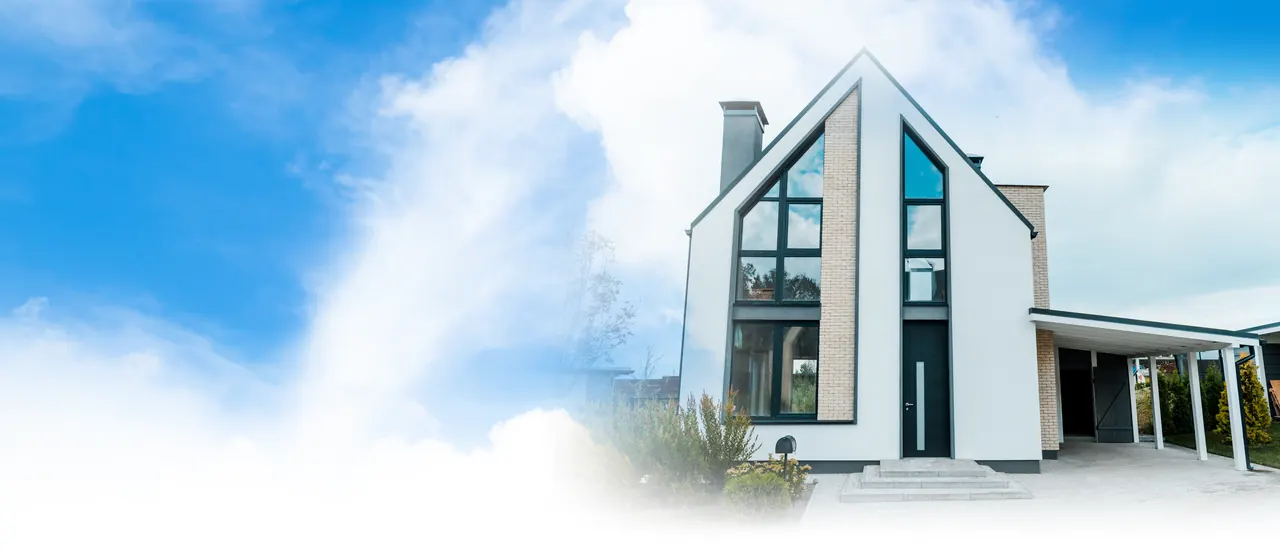
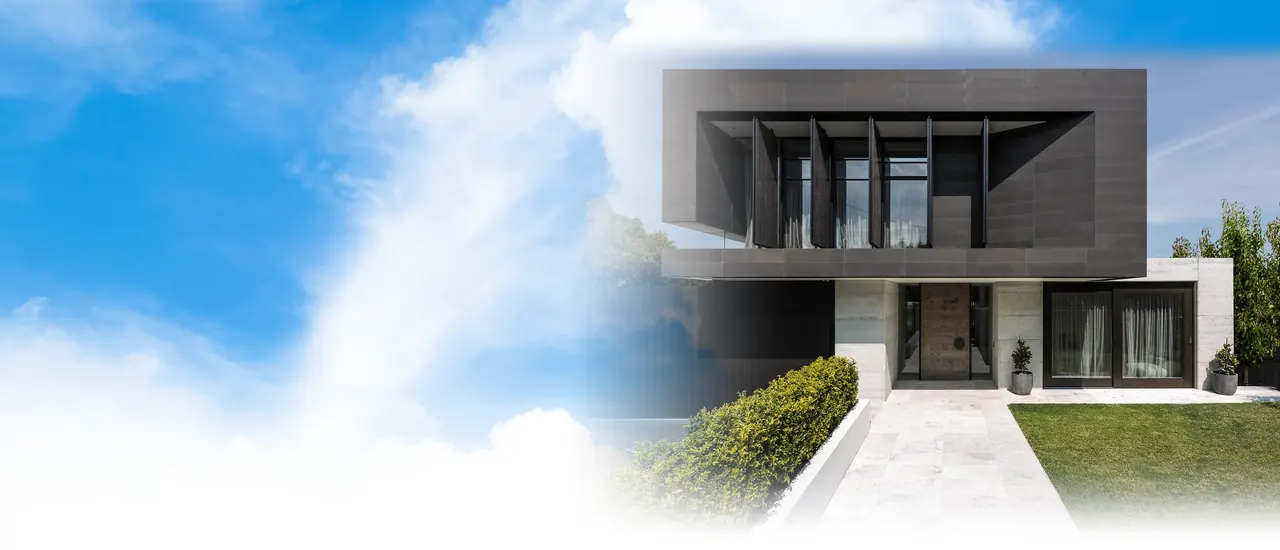
Ciemne zdjęcia: nowe tło hero, dom i mieszkanie w cenniku, żywe kolory

diff --git a/index.html b/index.html
@@ -384,7 +384,6 @@ b,strong{font-weight:400;color:var(--ink)}
 .pc__tint{display:block;position:relative;overflow:hidden}
 .pc__tint img{width:100%;height:100%;object-fit:cover;display:block}
 /* zdjecia szaro-biale, kolor daje tylko interfejs (17.11) */
-.hero__bg img{filter:saturate(var(--foto-sat,.65)) brightness(1.03) contrast(.97)}
 .pc__label{position:absolute;left:5%;bottom:5%;width:44%;max-width:240px;aspect-ratio:1;filter:drop-shadow(0 8px 18px rgba(20,30,40,.22))}
 .pc--hl{border:2px solid var(--green)}
 .pc .pc__badge{top:16px;left:auto;right:16px;z-index:1}
@@ -686,7 +685,7 @@ b,strong{font-weight:400;color:var(--ink)}
       </div>
       <div class="prices">
         <div class="pc pc--hl">
-          <span class="pc__img pc__tint"><img src="img/mieszkanie-640.webp" srcset="img/mieszkanie-640.webp 640w, img/mieszkanie-1280.webp 1280w" sizes="(min-width:960px) 560px, 100vw" width="640" height="427" alt="Nowoczesny blok mieszkalny z jasną elewacją" loading="lazy" decoding="async"></span>
+          <span class="pc__img pc__tint"><img src="img/mieszkanie-640.webp" srcset="img/mieszkanie-640.webp 640w, img/mieszkanie-1280.webp 1280w" sizes="(min-width:960px) 560px, 100vw" width="640" height="427" alt="Nowoczesny budynek mieszkalny z ciemną cegłą i białymi balkonami" loading="lazy" decoding="async"></span>
           <span class="pc__badge js-promo">Promocja do 31.12</span>
           <h3>Mieszkanie</h3>
           <div class="pc__price"><s class="js-promo">190 zł</s><span class="js-p-mieszkanie">149</span> zł <small>do 70 m²</small></div>
@@ -699,7 +698,7 @@ b,strong{font-weight:400;color:var(--ink)}
           <a class="btn btn--primary js-pick" data-type="mieszkanie" href="#zamow">Zamów dla mieszkania</a>
         </div>
         <div class="pc">
-          <span class="pc__img pc__tint"><img src="img/dom-640.webp" srcset="img/dom-640.webp 640w, img/dom-1280.webp 1280w" sizes="(min-width:960px) 560px, 100vw" width="640" height="427" alt="Nowoczesny dom jednorodzinny z dużymi przeszkleniami" loading="lazy" decoding="async"></span>
+          <span class="pc__img pc__tint"><img src="img/dom-640.webp" srcset="img/dom-640.webp 640w, img/dom-1280.webp 1280w" sizes="(min-width:960px) 560px, 100vw" width="640" height="427" alt="Nowoczesny dom z grafitową elewacją i drewnianymi drzwiami" loading="lazy" decoding="async"></span>
           <span class="pc__badge js-promo">Promocja do 31.12</span>
           <h3>Dom jednorodzinny</h3>
           <div class="pc__price"><s class="js-promo">390 zł</s>od <span class="js-p-dom">299</span> zł <small>do&nbsp;150&nbsp;m²</small></div>
